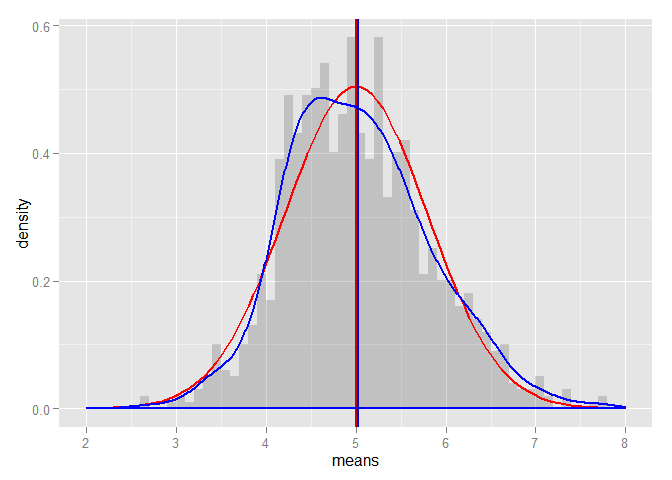
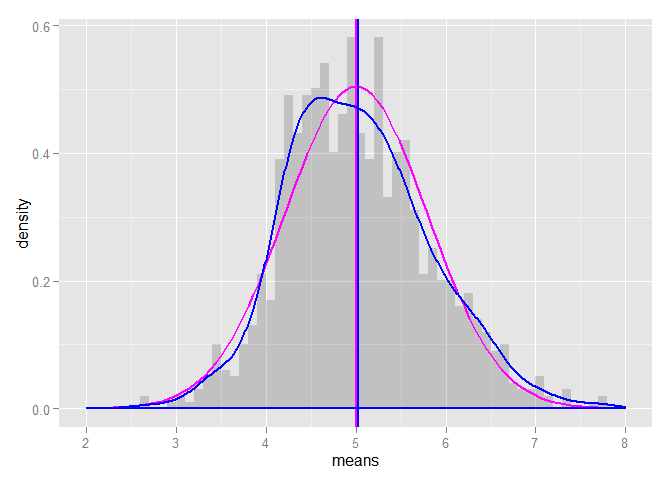
improvements

diff --git a/stat-inference-project1.html b/stat-inference-project1.html
@@ -81,14 +81,14 @@ library(ggplot2)
 # set constants
 lambda &lt;- 0.2 # lambda for rexp
 n &lt;- 40 # number of exponetials
-numberOfSimulations &lt;- 1000 # number of tests
+nSimulation &lt;- 1000 # number of tests
 
 # set the seed to create reproducability
 set.seed(1125556665)
 
-# run the test resulting in n x numberOfSimulations matrix
-exponentialDistributions &lt;- matrix(data=rexp(n * numberOfSimulations, lambda), nrow=numberOfSimulations)
-exponentialDistributionMeans &lt;- data.frame(means=apply(exponentialDistributions, 1, mean))</code></pre>
+# run the test resulting in n x nSimulation matrix
+expDist &lt;- matrix(data=rexp(n * nSimulation, lambda), nrow=nSimulation)
+expDistMeans &lt;- data.frame(means=apply(expDist, 1, mean))</code></pre>
[1 lines of base64/hex data omitted]
 </div>
 <div id="sample-mean-versus-theoretical-mean" class="section level2">
@@ -96,53 +96,53 @@ exponentialDistributionMeans &lt;- data.frame(means=apply(exponentialDistributio
 <p>The expected mean <span class="math">\(\mu\)</span> of a exponential distribution of rate <span class="math">\(\lambda\)</span> is</p>
 <p><span class="math">\(\mu= \frac{1}{\lambda}\)</span></p>
 <pre class="r"><code>mu &lt;- 1/lambda
-mu</code></pre>
+print(mu)</code></pre>
 <pre><code>## [1] 5</code></pre>
 <p>Let <span class="math">\(\bar X\)</span> be the average sample mean of 1000 simulations of 40 randomly sampled exponential distributions.</p>
-<pre class="r"><code>meanOfMeans &lt;- mean(exponentialDistributionMeans$means)
-meanOfMeans</code></pre>
+<pre class="r"><code>meanOfMeans &lt;- mean(expDistMeans$means)
+print(meanOfMeans)</code></pre>
 <pre><code>## [1] 5.027155</code></pre>
-<p>As you can see the expected mean and the avarage sample mean are very close</p>
+<p>The expected mean and the avarage sample mean are very close.</p>
 </div>
 <div id="sample-variance-versus-theoretical-variance" class="section level2">
 <h2>Sample Variance versus Theoretical Variance</h2>
 <p>The expected standard deviation <span class="math">\(\sigma\)</span> of a exponential distribution of rate <span class="math">\(\lambda\)</span> is</p>
 <p><span class="math">\(\sigma = \frac{1/\lambda}{\sqrt{n}}\)</span></p>
 <pre class="r"><code>sd &lt;- 1/lambda/sqrt(n)
-sd</code></pre>
+print(sd)</code></pre>
 <pre><code>## [1] 0.7905694</code></pre>
 <p>The variance <span class="math">\(Var\)</span> of standard deviation <span class="math">\(\sigma\)</span> is</p>
 <p><span class="math">\(Var = \sigma^2\)</span></p>
 <pre class="r"><code>Var &lt;- sd^2
-Var</code></pre>
+print(Var)</code></pre>
 <pre><code>## [1] 0.625</code></pre>
-<p>Let <span class="math">\(Var_x\)</span> be the variance of the average sample mean of 1000 simulations of 40 randomly sampled exponential distribution, and <span class="math">\(\sigma_x\)</span> the corresponding standard deviation.</p>
-<pre class="r"><code>sd_x &lt;- sd(exponentialDistributionMeans$means)
-sd_x</code></pre>
+<p>suppose <span class="math">\(Var_x\)</span> be the variance of the average sample mean of 1000 simulations of 40 randomly sampled exponential distribution, and <span class="math">\(\sigma_x\)</span> the corresponding standard deviation.</p>
+<pre class="r"><code>sd_x &lt;- sd(expDistMeans$means)
+print(sd_x)</code></pre>
 <pre><code>## [1] 0.8154577</code></pre>
-<pre class="r"><code>Var_x &lt;- var(exponentialDistributionMeans$means)
-Var_x</code></pre>
+<pre class="r"><code>Var_x &lt;- var(expDistMeans$means)
+print(Var_x)</code></pre>
 <pre><code>## [1] 0.6649713</code></pre>
-<p>As you can see the standard deviations are very close Since variance is the square of the standard deviations, minor differnces will we enhanced, but are still pretty close.</p>
+<p>From the results, standard deviations are very close.</p>
 </div>
 <div id="distribution" class="section level2">
 <h2>Distribution</h2>
-<p>Comparing the population means &amp; standard deviation with a normal distribution of the expected values. Added lines for the calculated and expected means</p>
+<p>Let us now compare the population means &amp; standard deviation with a normal distribution of the expected values. Please see the following graphs. Special lines were added in the graph to differentiate between the population means and the simulation means.</p>
 <pre class="r"><code># plot the means
-ggplot(data = exponentialDistributionMeans, aes(x = means)) + 
+ggplot(data = expDistMeans, aes(x = means)) + 
   geom_histogram(binwidth=0.1, aes(y=..density..), alpha=0.2) + 
-  stat_function(fun = dnorm, arg = list(mean = mu , sd = sd), colour = &quot;red&quot;, size=1) + 
-  geom_vline(xintercept = mu, size=1, colour=&quot;#CC0000&quot;) + 
+  stat_function(fun = dnorm, arg = list(mean = mu , sd = sd), colour = &quot;magenta&quot;, size=1) + 
+  geom_vline(xintercept = mu, size=1, colour=&quot;magenta&quot;) + 
   geom_density(colour=&quot;blue&quot;, size=1) +
-  geom_vline(xintercept = meanOfMeans, size=1, colour=&quot;#0000CC&quot;) + 
+  geom_vline(xintercept = meanOfMeans, size=1, colour=&quot;blue&quot;) + 
   scale_x_continuous(breaks=seq(mu-3,mu+3,1), limits=c(mu-3,mu+3)) </code></pre>
 <pre><code>## Warning in loop_apply(n, do.ply): Removed 2 rows containing non-finite
 ## values (stat_density).</code></pre>
[1 lines of base64/hex data omitted]
-<p>As you can see from the graph, the calculated distribution of means of random sampled exponantial distributions, overlaps quite nice with the normal distribution with the expected values based on the given lamba</p>
[1 lines of base64/hex data omitted]
+<p>From the graph, the calculated distribution of means of random sampled exponantial distributions, overlaps quite nice with the normal distribution with the expected values based on the given lamba.</p>
 <div id="references" class="section level3">
 <h3>References</h3>
-<p>Lecture notes</p>
+<p>Lecture notes, especially lecture number 7.</p>
 </div>
 </div>
 </div>

diff --git a/stat-inference-project1.md b/stat-inference-project1.md
@@ -18,14 +18,14 @@ library(ggplot2)
 # set constants
 lambda <- 0.2 # lambda for rexp
 n <- 40 # number of exponetials
-numberOfSimulations <- 1000 # number of tests
+nSimulation <- 1000 # number of tests
 
 # set the seed to create reproducability
 set.seed(1125556665)
 
-# run the test resulting in n x numberOfSimulations matrix
-exponentialDistributions <- matrix(data=rexp(n * numberOfSimulations, lambda), nrow=numberOfSimulations)
-exponentialDistributionMeans <- data.frame(means=apply(exponentialDistributions, 1, mean))
+# run the test resulting in n x nSimulation matrix
+expDist <- matrix(data=rexp(n * nSimulation, lambda), nrow=nSimulation)
+expDistMeans <- data.frame(means=apply(expDist, 1, mean))
 ```
 
 ![](stat-inference-project1_files/figure-html/unnamed-chunk-2-1.png) 
@@ -39,7 +39,7 @@ $\mu= \frac{1}{\lambda}$
 
 ```r
 mu <- 1/lambda
-mu
+print(mu)
 ```
 
 ```
@@ -50,15 +50,16 @@ Let $\bar X$ be the average sample mean of 1000 simulations of 40 randomly sampl
 
 
 ```r
-meanOfMeans <- mean(exponentialDistributionMeans$means)
-meanOfMeans
+meanOfMeans <- mean(expDistMeans$means)
+print(meanOfMeans)
 ```
 
 ```
 ## [1] 5.027155
 ```
 
-As you can see the expected mean and the avarage sample mean are very close 
+The expected mean and the avarage sample mean are very close. 
+
 
 
 ## Sample Variance versus Theoretical Variance
@@ -71,7 +72,7 @@ $\sigma = \frac{1/\lambda}{\sqrt{n}}$
 
 ```r
 sd <- 1/lambda/sqrt(n)
-sd
+print(sd)
 ```
 
 ```
@@ -85,18 +86,18 @@ $Var = \sigma^2$
 
 ```r
 Var <- sd^2
-Var
+print(Var)
 ```
 
 ```
 ## [1] 0.625
 ```
 
-Let $Var_x$ be the variance of the average sample mean of 1000 simulations of 40 randomly sampled exponential distribution, and $\sigma_x$ the corresponding standard deviation.
+suppose $Var_x$ be the variance of the average sample mean of 1000 simulations of 40 randomly sampled exponential distribution, and $\sigma_x$ the corresponding standard deviation.
 
 ```r
-sd_x <- sd(exponentialDistributionMeans$means)
-sd_x
+sd_x <- sd(expDistMeans$means)
+print(sd_x)
 ```
 
 ```
@@ -104,30 +105,31 @@ sd_x
 ```
 
 ```r
-Var_x <- var(exponentialDistributionMeans$means)
-Var_x
+Var_x <- var(expDistMeans$means)
+print(Var_x)
 ```
 
 ```
 ## [1] 0.6649713
 ```
 
-As you can see the standard deviations are very close
-Since variance is the square of the standard deviations, minor differnces will we enhanced, but are still pretty close.
+From the results, standard deviations are very close. 
 
 ## Distribution
 
-Comparing the population means & standard deviation with a normal distribution of the expected values. Added lines for the calculated and expected means
+Let us now compare the population means & standard deviation with a normal distribution of the expected values. Please see the following graphs. 
+Special lines were added in the graph to differentiate between the population means and the simulation means. 
+
 
 
 ```r
 # plot the means
-ggplot(data = exponentialDistributionMeans, aes(x = means)) + 
+ggplot(data = expDistMeans, aes(x = means)) + 
   geom_histogram(binwidth=0.1, aes(y=..density..), alpha=0.2) + 
-  stat_function(fun = dnorm, arg = list(mean = mu , sd = sd), colour = "red", size=1) + 
-  geom_vline(xintercept = mu, size=1, colour="#CC0000") + 
+  stat_function(fun = dnorm, arg = list(mean = mu , sd = sd), colour = "magenta", size=1) + 
+  geom_vline(xintercept = mu, size=1, colour="magenta") + 
   geom_density(colour="blue", size=1) +
-  geom_vline(xintercept = meanOfMeans, size=1, colour="#0000CC") + 
+  geom_vline(xintercept = meanOfMeans, size=1, colour="blue") + 
   scale_x_continuous(breaks=seq(mu-3,mu+3,1), limits=c(mu-3,mu+3)) 
 ```
 
@@ -138,8 +140,8 @@ ggplot(data = exponentialDistributionMeans, aes(x = means)) +
 
 ![](stat-inference-project1_files/figure-html/unnamed-chunk-8-1.png) 
 
-As you can see from the graph, the calculated distribution of means of random sampled exponantial distributions, overlaps quite nice with the normal distribution with the expected values based on the given lamba
+From the graph, the calculated distribution of means of random sampled exponantial distributions, overlaps quite nice with the normal distribution with the expected values based on the given lamba.
 
 
 ###References
-Lecture notes
+Lecture notes, especially lecture number 7. 
